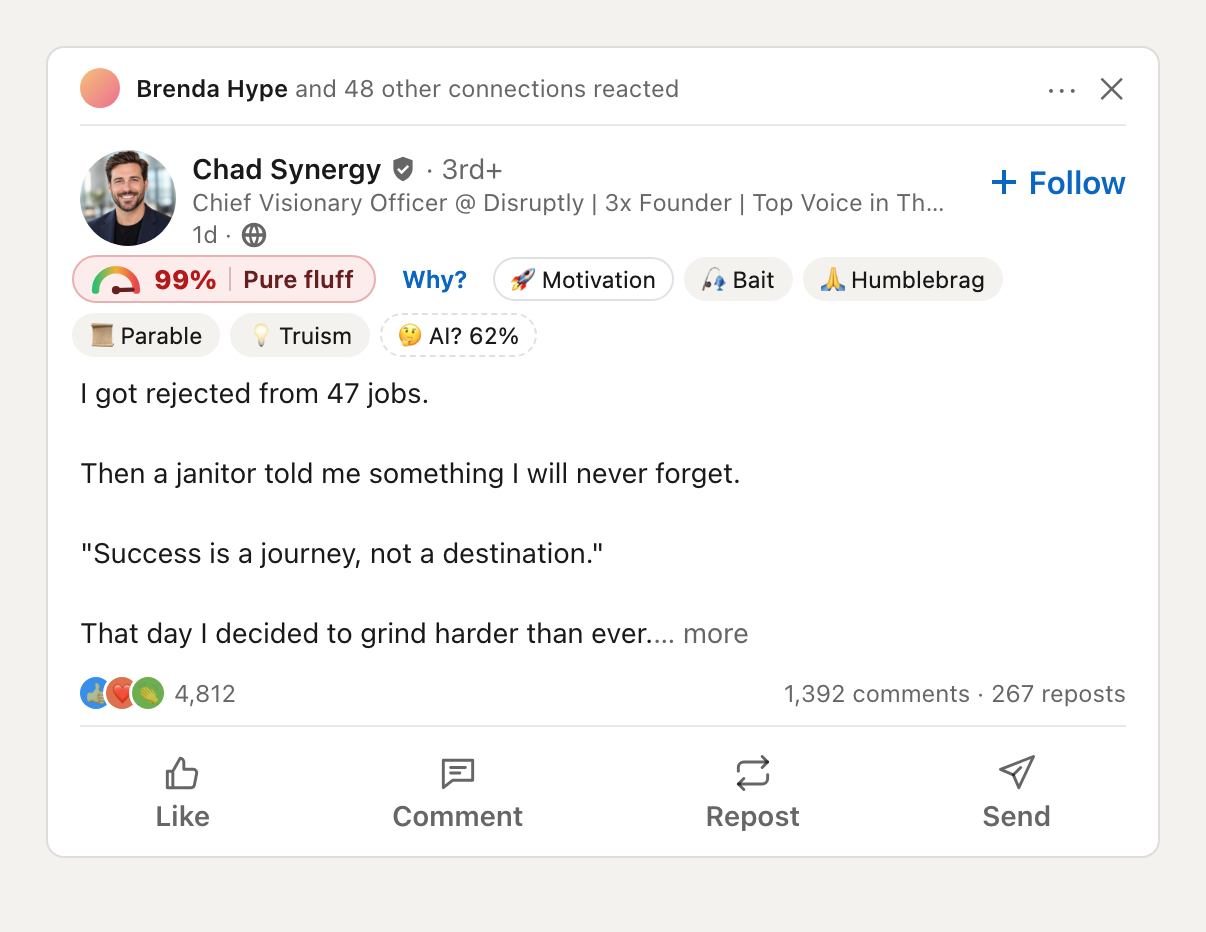
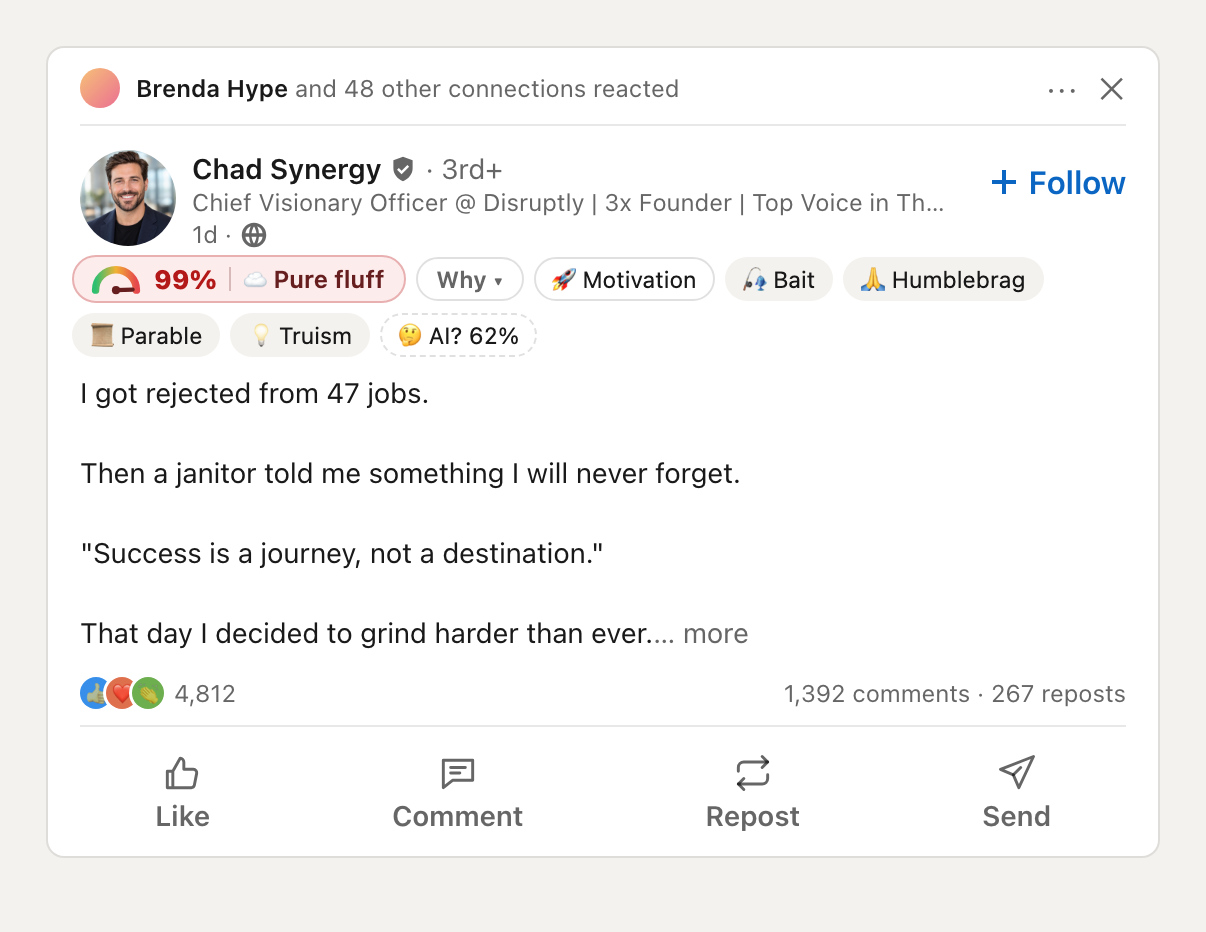
Restyle Why as a chip and bring back the verdict emoji
The blue "Why?" link looked out of place next to the chips; it is now a muted chip, "Why ▾", that reads "Hide ▴" when open. The verdict emoji is back in the pill, which is light enough to show it, and the easter egg keeps the gauge at zero.

Changed region(s): [[0.1841, 0.28, 0.859, 0.3112]]

diff --git a/src/lib/ui/badge.ts b/src/lib/ui/badge.ts
@@ -141,8 +141,14 @@ export class Badge {
     const firstRender = !this.#counted;
     const why = h(
       "button",
-      { class: "expand", type: "button", "aria-expanded": String(this.#expanded), onclick: toggle },
-      this.#expanded ? "Hide" : "Why?",
+      {
+        class: "expand",
+        type: "button",
+        "aria-expanded": String(this.#expanded),
+        title: "What drove this score",
+        onclick: toggle,
+      },
+      this.#expanded ? "Hide ▴" : "Why ▾",
     );
     const row = h(
       "div",
@@ -159,12 +165,10 @@ export class Badge {
             title: "Fluff Index. Click for the breakdown.",
             onclick: toggle,
           },
-          legend
-            ? h("span", { "aria-hidden": "true" }, verdict.emoji)
-            : gauge(index, firstRender && !reducedMotion()),
+          gauge(index, firstRender && !reducedMotion()),
           number,
           h("span", { class: "pill-sep", "aria-hidden": "true" }),
-          h("span", { class: "verdict" }, verdict.label),
+          h("span", { class: "verdict" }, `${verdict.emoji} ${verdict.label}`),
           demo && h("span", { class: "demo-tag" }, "DEMO"),
         ),
       why,

diff --git a/src/lib/ui/badge.css b/src/lib/ui/badge.css
@@ -220,14 +220,25 @@ button:focus-visible {
 }
 
 .expand {
+  display: inline-flex;
+  align-items: center;
   height: 22px;
-  padding: 0 8px;
+  padding: 0 9px;
+  border: 1px solid var(--border);
   border-radius: 999px;
-  color: var(--accent);
+  color: var(--muted);
+  font-size: 11.5px;
   font-weight: 600;
+  transition:
+    color 120ms,
+    border-color 120ms,
+    background 120ms;
 }
 
-.expand:hover {
+.expand:hover,
+.expand[aria-expanded="true"] {
+  color: var(--text);
+  border-color: var(--muted);
   background: var(--surface);
 }
 

diff --git a/CHANGELOG.md b/CHANGELOG.md
@@ -4,7 +4,8 @@
 
 - The score pill shows a mini speedometer instead of an emoji, and reads well on any color.
 - Clearer levels: Pure signal, Mostly solid, A bit fluffy, Fluffy, Very fluffy, Pure fluff.
-- "Why?" is back next to the score, and the AI chip comes last.
+- "Why ▾" sits next to the score as a quiet chip, the verdict emoji is back in the pill, and
+  the AI chip comes last.
 - Two README screenshots: a fluffy post and a useful one.
 - The popup shows the same speedometer next to your feed's average.
 
